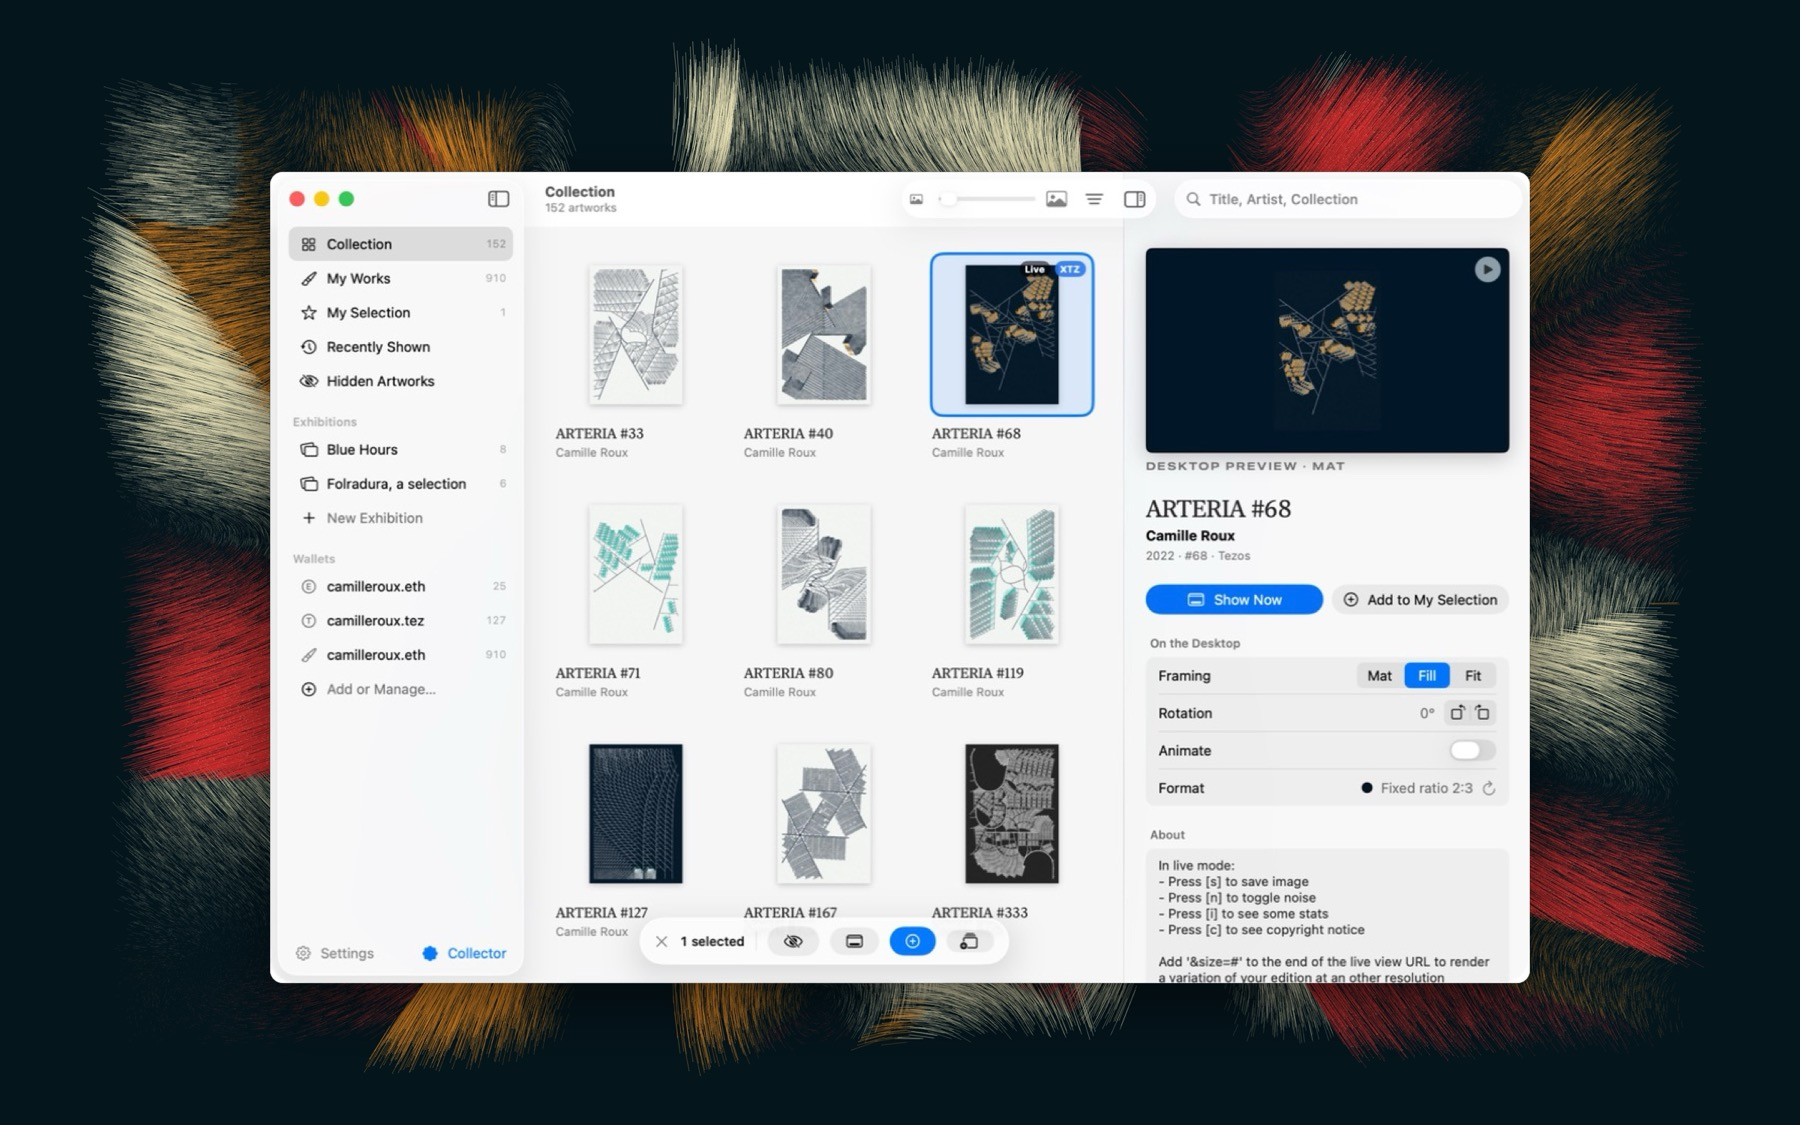
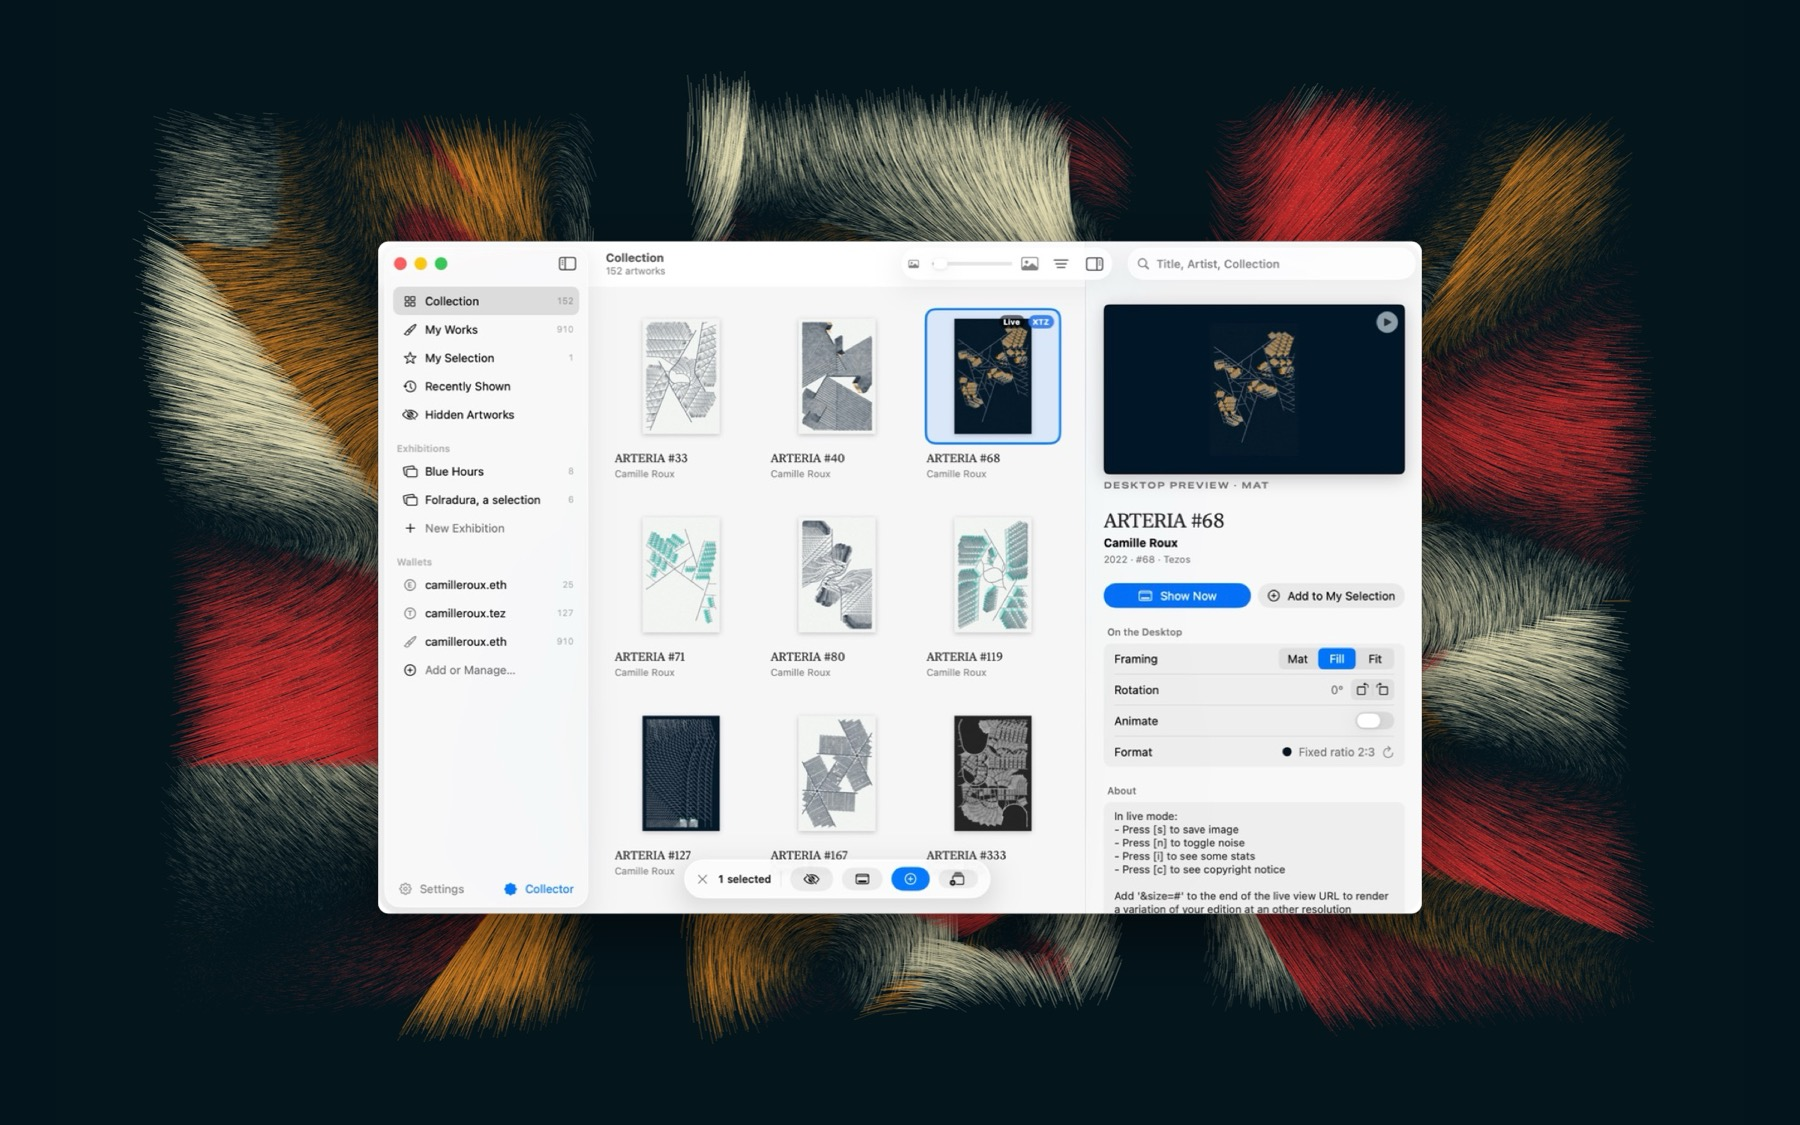
Bureau : Folradura #2 en entier (Fit)

diff --git a/README.md b/README.md
@@ -11,7 +11,7 @@ connecting to them: no signature and no private key.
 *Intricada #266, hung on the desktop in a Gallery White frame.*
 
 ![The Library window over a desktop whose wallpaper is Folradura #2](images/library.jpg)
-*The Library over the desktop: your collection, exhibitions and wallets. The wallpaper is Folradura #2.*
+*The Library over the desktop: your collection, exhibitions and wallets. The wallpaper is Folradura #2, shown whole (Fit).*
 
 It works with Ethereum (with Base, Optimism, Arbitrum and Polygon), Tezos and Bitcoin Ordinals. It needs
 **macOS 14 Sonoma or later**.
